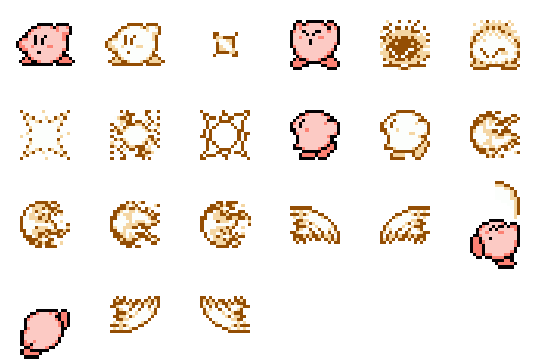
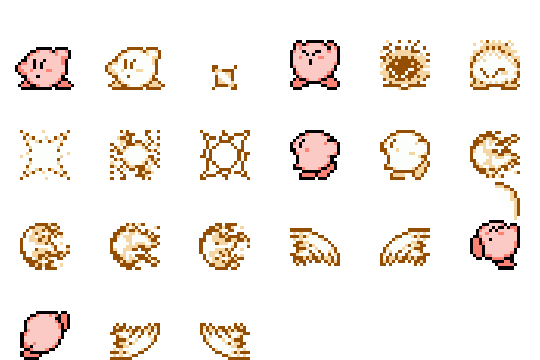
최예나 : 피격 구현

diff --git a/WinAPI_Portfolio/ContentsProject/Player.cpp b/WinAPI_Portfolio/ContentsProject/Player.cpp
@@ -46,8 +46,9 @@ void APlayer::Tick(float _DeltaTime)
 	UEngineDebug::CoreOutPutString("FPS : " + std::to_string(1.0f / _DeltaTime));
 	UEngineDebug::CoreOutPutString("PlayerPos : " + GetActorLocation().ToString());
 	UEngineDebug::CoreOutPutString("PlayerState : " + std::to_string(static_cast<int>(CurState)));
+	UEngineDebug::CoreOutPutString("PlayerAbility : " + std::to_string(static_cast<int>(CurAbility)));
+	UEngineDebug::CoreOutPutString("CurMonsterType : " + std::to_string(static_cast<int>(CurMonsterAbility)));
 	UEngineDebug::CoreOutPutString("PlayerDir : " + AnimDir);
-	UEngineDebug::CoreOutPutString("AdjustValue : " + std::to_string(AdjustValue.X) + ", " + std::to_string(AdjustValue.Y));
 	UEngineDebug::CoreOutPutString("IsFull : " + std::to_string(IsFull));
 
 	SetAnimDir();
@@ -72,6 +73,8 @@ void APlayer::SpawnSpit()
 
 void APlayer::CollisionEnter(AActor* _ColActor)
 {
+	AMonster* Monster = dynamic_cast<AMonster*>(_ColActor);
+
 	if (CurState == EPlayerState::INHALESTART)
 	{
 		IsFull = true;
@@ -80,6 +83,8 @@ void APlayer::CollisionEnter(AActor* _ColActor)
 	else
 	{
 		dynamic_cast<AMonster*>(_ColActor)->SetMonsterState(EMonsterState::DIE);
+		SetCurState(EPlayerState::HURT);
+		return;
 	}
 }
 
@@ -180,6 +185,14 @@ void APlayer::SetAnimation()
 	// Spit
 	PlayerRenderer->CreateAnimation("Spit_Left", "Kirby_Normal_Left.png", 34, 37, 0.1f, false);
 	PlayerRenderer->CreateAnimation("Spit_Right", "Kirby_Normal_Right.png", 34, 37, 0.1f, false);
+
+	// HURT_UNFULLED
+	PlayerRenderer->CreateAnimation("Hurt_Left", "Kirby_Normal_Left.png", { 58, 71 }, 0.05f);
+	PlayerRenderer->CreateAnimation("Hurt_Right", "Kirby_Normal_Right.png", { 58, 71 }, 0.05f);
+
+	// HURT_FULLED
+	PlayerRenderer->CreateAnimation("HurtFull_Left", "Kirby_Normal_Left.png", {72, 81 }, 0.05f);
+	PlayerRenderer->CreateAnimation("HurtFull_Right", "Kirby_Normal_Right.png", { 72, 81 }, 0.05f);
 
 	PlayerRenderer->ChangeAnimation("Idle_Right");
 }
@@ -338,8 +351,14 @@ void APlayer::FSM(float _DeltaTime)
 	case EPlayerState::SPIT:
 		State->Spit(_DeltaTime);
 		break;
+	case EPlayerState::SKILLSTART:
+		State->SkillStart(_DeltaTime);
+		break;
 	case EPlayerState::SKILL:
-		//State->Skill(_DeltaTime);
+		State->Skill(_DeltaTime);
+		break;
+	case EPlayerState::SKILLEND:
+		State->SkillEnd(_DeltaTime);
 		break;
 	case EPlayerState::HURT:
 		State->HurtStart(_DeltaTime);

diff --git a/WinAPI_Portfolio/ContentsProject/WaddleBeam.cpp b/WinAPI_Portfolio/ContentsProject/WaddleBeam.cpp
@@ -15,18 +15,11 @@ AWaddleBeam::AWaddleBeam()
 		WaddleBeamRender[i]->SetOrder(ERenderOrder::SKILL);
 		WaddleBeamRender[i]->SetComponentLocation((Dir + FVector2D{ 0 , -45 * i }));
 		WaddleBeamRender[i]->SetComponentScale({ 40, 40 });
-
-		WaddleBeamCollision[i] = CreateDefaultSubObject<U2DCollision>();
-		WaddleBeamCollision[i]->SetComponentLocation((Dir + FVector2D{ 0 , -45 * i }));
-		WaddleBeamCollision[i]->SetComponentScale({ 38, 38 });
-		WaddleBeamCollision[i]->SetCollisionGroup(ECollisionGroup::MONSTERSKILL);
-		WaddleBeamCollision[i]->SetCollisionType(ECollisionType::CirCle);
-		DebugOn();
 	}
 
 	ArrDir[static_cast<int>(Phase::Phase01)] = FVector2D::UP;
-	ArrDir[static_cast<int>(Phase::Phase02)] = FVector2D(-0.45, -1.0f);
-	ArrDir[static_cast<int>(Phase::Phase03)] = FVector2D(-0.85, -1.0f);;
+	ArrDir[static_cast<int>(Phase::Phase02)] = FVector2D(-0.45f, -1.0f);
+	ArrDir[static_cast<int>(Phase::Phase03)] = FVector2D(-0.85f, -1.0f);;
 	ArrDir[static_cast<int>(Phase::Phase04)] = FVector2D::LEFT;
 	ArrDir[static_cast<int>(Phase::Phase05)] = FVector2D(-1, 1);
 
@@ -34,6 +27,8 @@ AWaddleBeam::AWaddleBeam()
 	{
 		ArrDir[i].Normalize();
 	}
+	
+	DebugOn();
 }
 
 AWaddleBeam::~AWaddleBeam()
@@ -133,6 +128,31 @@ void AWaddleBeam::Phase05(float _DeltaTime)
 void AWaddleBeam::Phase06(float _DeltaTime)
 {
 	Destroy();
+}
+
+void AWaddleBeam::SetMosnterSkillCollision()
+{
+	for (int i = 0; i < 3; i++)
+	{
+		WaddleBeamCollision[i] = CreateDefaultSubObject<U2DCollision>();
+		WaddleBeamCollision[i]->SetComponentLocation((Dir + FVector2D{ 0 , -45 * i }));
+		WaddleBeamCollision[i]->SetComponentScale({ 38, 38 });
+		WaddleBeamCollision[i]->SetCollisionGroup(ECollisionGroup::MONSTERSKILL);
+		WaddleBeamCollision[i]->SetCollisionType(ECollisionType::CirCle);
+
+	}
+}
+
+void AWaddleBeam::SetPlayerSkillCollision()
+{
+	for (int i = 0; i < 3; i++)
+	{
+		WaddleBeamCollision[i] = CreateDefaultSubObject<U2DCollision>();
+		WaddleBeamCollision[i]->SetComponentLocation((Dir + FVector2D{ 0 , -45 * i }));
+		WaddleBeamCollision[i]->SetComponentScale({ 38, 38 });
+		WaddleBeamCollision[i]->SetCollisionGroup(ECollisionGroup::PLAYERSKILL);
+		WaddleBeamCollision[i]->SetCollisionType(ECollisionType::CirCle);
+	}
 }
 
 void AWaddleBeam::Tick(float _DeltaTime)

diff --git a/WinAPI_Portfolio/ContentsProject/Monster.cpp b/WinAPI_Portfolio/ContentsProject/Monster.cpp
@@ -40,12 +40,13 @@ void AMonster::GetColImage(std::string _ColImageName)
 	ColImage = UImageManager::GetInst().FindImage(_ColImageName);
 }
 
-void AMonster::SetMonster(std::string _SpriteName, FVector2D _SpriteScale)
+void AMonster::SetMonster(std::string _SpriteName, FVector2D _SpriteScale, EAbilityType _AbilityType)
 {
 	SpriteRenderer = CreateDefaultSubObject<USpriteRenderer>();
 	SpriteRenderer->SetSprite(_SpriteName);
 	SpriteRenderer->SetComponentScale(_SpriteScale);
 	MonsterScale = SpriteRenderer->GetTransform().Scale;
+	MonsterAbility = _AbilityType;
 }
 
 void AMonster::SetCollision(FVector2D _CollisionScale)
@@ -55,9 +56,6 @@ void AMonster::SetCollision(FVector2D _CollisionScale)
 	CollisionComponent->SetComponentScale(_CollisionScale);
 	CollisionComponent->SetCollisionGroup(ECollisionGroup::MONSTERBODY);
 	CollisionComponent->SetCollisionType(ECollisionType::CirCle);
-
-	GetWorld()->CollisionGroupLink(ECollisionGroup::MONSTERBODY, ECollisionGroup::PLAYERSKILL);
-	CollisionComponent->SetCollisionEnter(std::bind(&AMonster::CollisionEnter, this, std::placeholders::_1));
 }
 
 void AMonster::ChangeMonsterAnim(std::string _AnimName)
@@ -156,12 +154,6 @@ void AMonster::Gravity(float _DeltaTime)
 	}
 }
 
-void AMonster::CollisionEnter(AActor* _ColActor)
-{
-	SetMonsterState(EMonsterState::DIE);
-	return;
-}
-
 void AMonster::Pause(float _DeltaTime)
 {
 	SetMonsterState(EMonsterState::CHASE);
@@ -221,8 +213,10 @@ void AMonster::Inhale(float _DeltaTime)
 	if (nullptr != InhalePlayer)
 	{
 		InhalePlayer->SetIsFull(true);
+
 		InhalePlayer->SkillBoxCollisionSwitch(false);
 		InhalePlayer->SetCurState(EPlayerState::IDLE);
+		InhalePlayer->SetCurMosnterAbility(MonsterAbility);
 		Destroy();
 	}
 

diff --git a/WinAPI_Portfolio/ContentsProject/Player.h b/WinAPI_Portfolio/ContentsProject/Player.h
@@ -48,6 +48,16 @@ public:
 		CurAbility = _NewAbility;
 	}
 
+	// CurMonsterAbility (IsFull == true)
+	inline EAbilityType GetCurMonsterAbility() const
+	{
+		return CurMonsterAbility;
+	}
+	inline void SetCurMosnterAbility(EAbilityType _Ability)
+	{
+		CurMonsterAbility = _Ability;
+	}
+
 	// Pixel Collision
 	void GetBackgroundImage(std::string_view _BackImage, std::string_view _ColImage);
 
@@ -75,6 +85,7 @@ public:
 
 	void CollisionEnter(AActor* _ColActor);
 	void CollisionStay(AActor* _ColActor);
+	//void PlayerCollisionEnter(AActor* _ColActor);
 
 protected:
 	void BeginPlay() override;
@@ -95,6 +106,7 @@ private:
 
 	EPlayerState CurState = EPlayerState::IDLE;
 	EAbilityType CurAbility = EAbilityType::NORMAL;
+	EAbilityType CurMonsterAbility = EAbilityType::MAX;	// IsFull
 	void FSM(float _DeltaTime);
 
 	U2DCollision* PlayerCollision = nullptr;

diff --git a/WinAPI_Portfolio/ContentsProject/Monster.h b/WinAPI_Portfolio/ContentsProject/Monster.h
@@ -39,7 +39,7 @@ protected:
 	void BeginPlay() override;
 	void Tick(float _DeltaTime) override;
 
-	void SetMonster(std::string _SpriteName, FVector2D _SpriteScale);
+	void SetMonster(std::string _SpriteName, FVector2D _SpriteScale, EAbilityType _AbilityType);
 	void SetCollision(FVector2D _CollisionScale);
 
 	void ChangeMonsterAnim(std::string _AnimName);
@@ -61,6 +61,5 @@ private:
 	FVector2D MonsterScale = FVector2D::ZERO;
 	FVector2D GravityForce = FVector2D::ZERO;
 	EMonsterState CurState = EMonsterState::CHASE;
-
-	void CollisionEnter(AActor* _ColActor);
+	EAbilityType MonsterAbility = EAbilityType::MAX;
 };

diff --git a/WinAPI_Portfolio/ContentsProject/KirbyContentsCore.cpp b/WinAPI_Portfolio/ContentsProject/KirbyContentsCore.cpp
@@ -67,6 +67,8 @@ void KirbyContentsCore::CuttingImages()
 	// Kirby
 	UImageManager::GetInst().CuttingSprite("Kirby_Normal_Left.png", { 100, 100 });
 	UImageManager::GetInst().CuttingSprite("Kirby_Normal_Right.png", { 100, 100 });
+	UImageManager::GetInst().CuttingSprite("Kirby_Ability_Left.png", { 90, 90 });
+	UImageManager::GetInst().CuttingSprite("Kirby_Ability_Right.png", { 90, 90 });
 
 	// HUI
 	UImageManager::GetInst().CuttingSprite("Lives.png", { 41, 39 });

diff --git a/WinAPI_Portfolio/ContentsProject/WaddleBeam.h b/WinAPI_Portfolio/ContentsProject/WaddleBeam.h
@@ -24,6 +24,7 @@ public:
 	AWaddleBeam& operator=(const AWaddleBeam& _Other) = delete;
 	AWaddleBeam& operator=(AWaddleBeam&& _Other) noexcept = delete;
 
+
 	void SetDir(const FVector2D& _Dir);
 	void SetEffect(FVector2D _Dir);
 
@@ -34,6 +35,8 @@ public:
 	void Phase05(float _DeltaTime);
 	void Phase06(float _DeltaTime);
 
+	void SetMosnterSkillCollision();
+	void SetPlayerSkillCollision();
 protected:
 	void Tick(float _DeltaTime);
 private:

diff --git a/WinAPI_Portfolio/ContentsProject/PlayerState.h b/WinAPI_Portfolio/ContentsProject/PlayerState.h
@@ -37,6 +37,9 @@ public:
 	void Inhale(float _DeltaTime);
 	void InhaleEnd(float _DeltaTime);
 	void Spit(float _DeltaTime);
+	void SkillStart(float _DeltaTime);
+	void Skill(float _DeltaTime);
+	void SkillEnd(float _DeltaTime);
 	//void AbilityStart(float _DeltaTime);
 	//void Ability(float _DeltaTime);
 	/*void BeamStart(float _DeltaTime);

diff --git a/WinAPI_Portfolio/ContentsProject/ContentsEnum.h b/WinAPI_Portfolio/ContentsProject/ContentsEnum.h
@@ -44,7 +44,8 @@ enum class EAbilityType
 	NORMAL,
 	BEAM,
 	FIRE,
-	CUTTER
+	CUTTER,
+	MAX
 };
 
 enum class EPlayerState
@@ -64,7 +65,9 @@ enum class EPlayerState
 	INHALESTART,
 	INHALE,
 	SPIT,
+	SKILLSTART,
 	SKILL,
+	SKILLEND,
 	HURT,
 	DIE
 };

diff --git a/WinAPI_Portfolio/ContentsProject/WaddleDee.cpp b/WinAPI_Portfolio/ContentsProject/WaddleDee.cpp
@@ -5,7 +5,7 @@
 
 AWaddleDee::AWaddleDee()
 {
-	SetMonster("WaddleDee_Left.png", { 50, 50 });
+	SetMonster("WaddleDee_Left.png", { 50, 50 }, EAbilityType::NORMAL);
 	SetCollision({ 54, 54 });
 	SetAnimation();
 	DebugOn();
